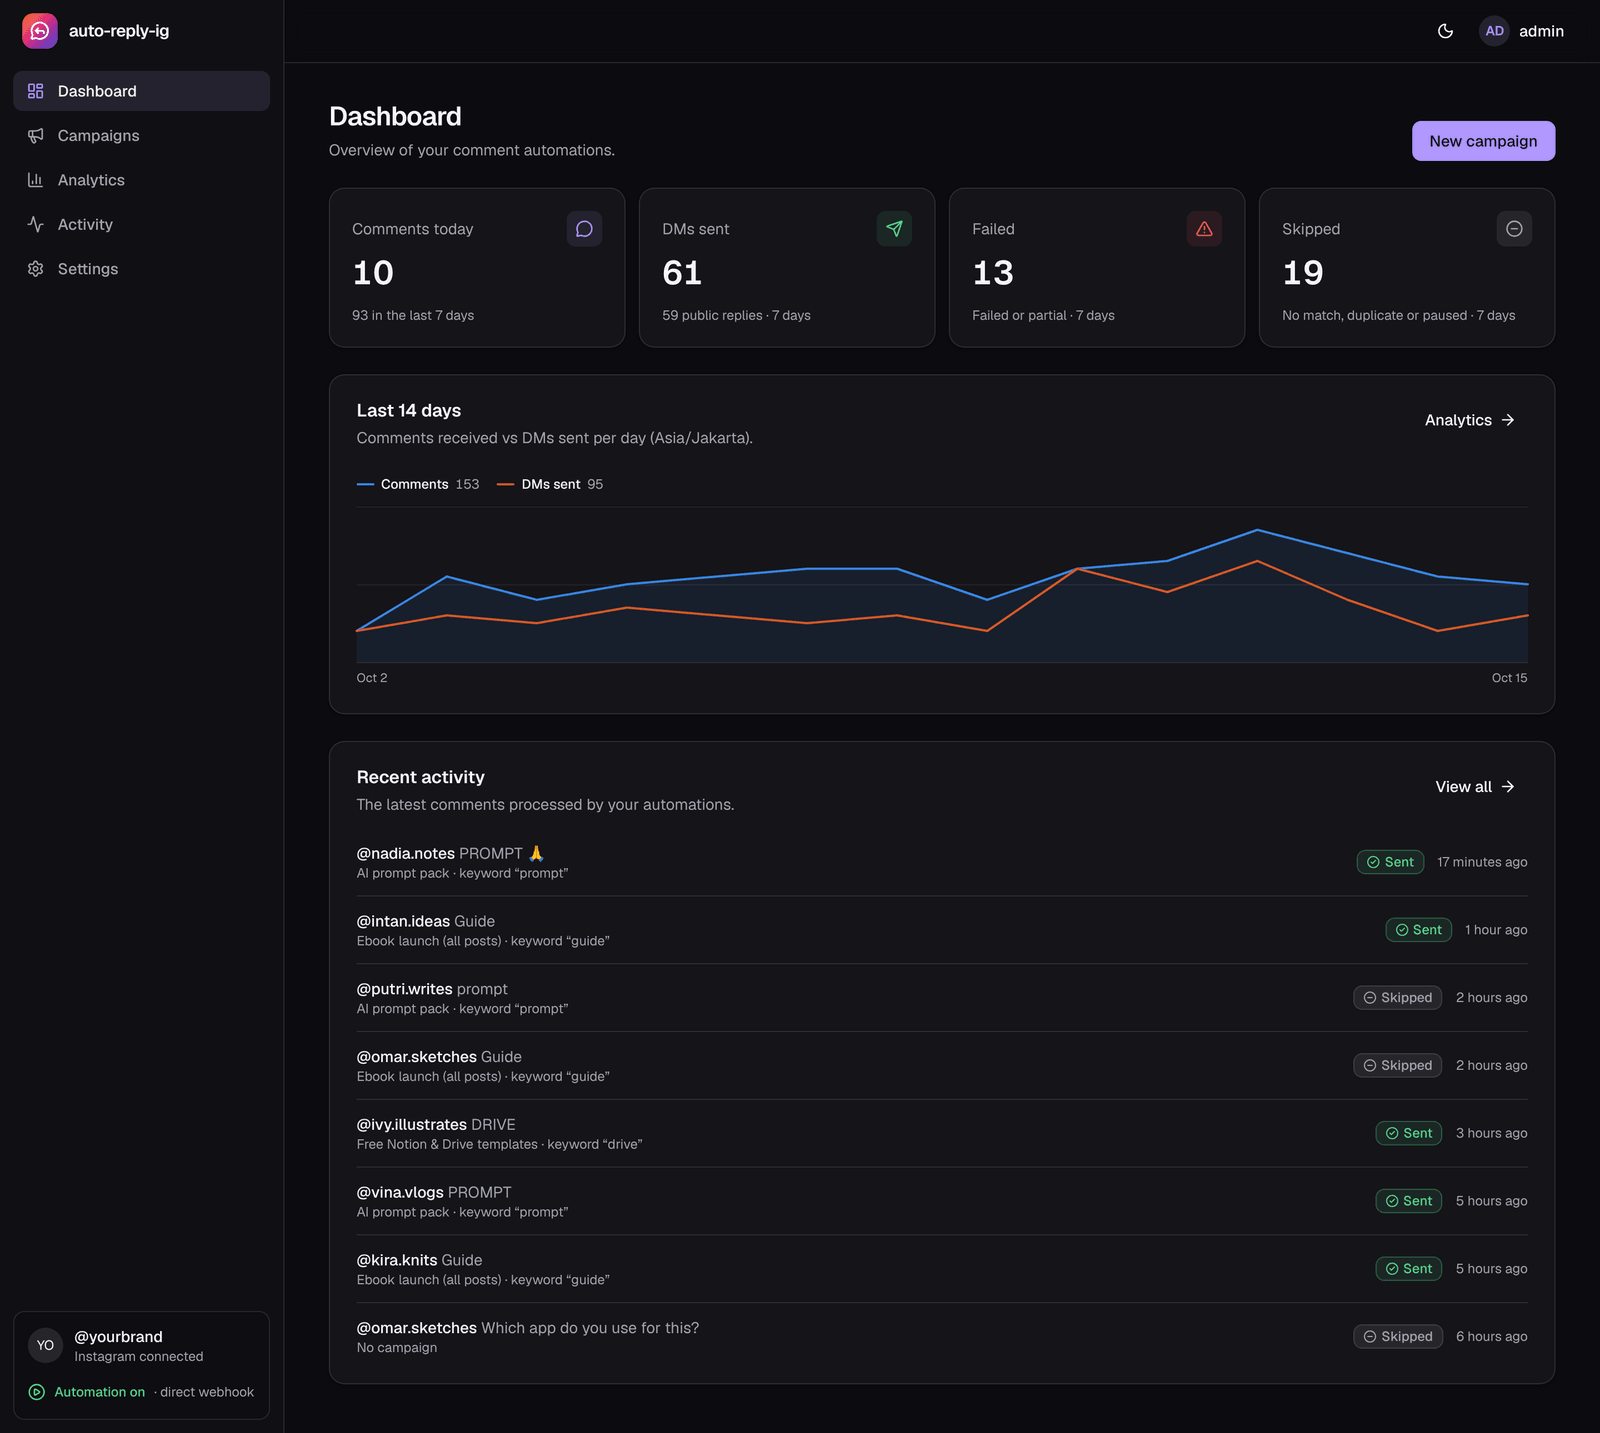
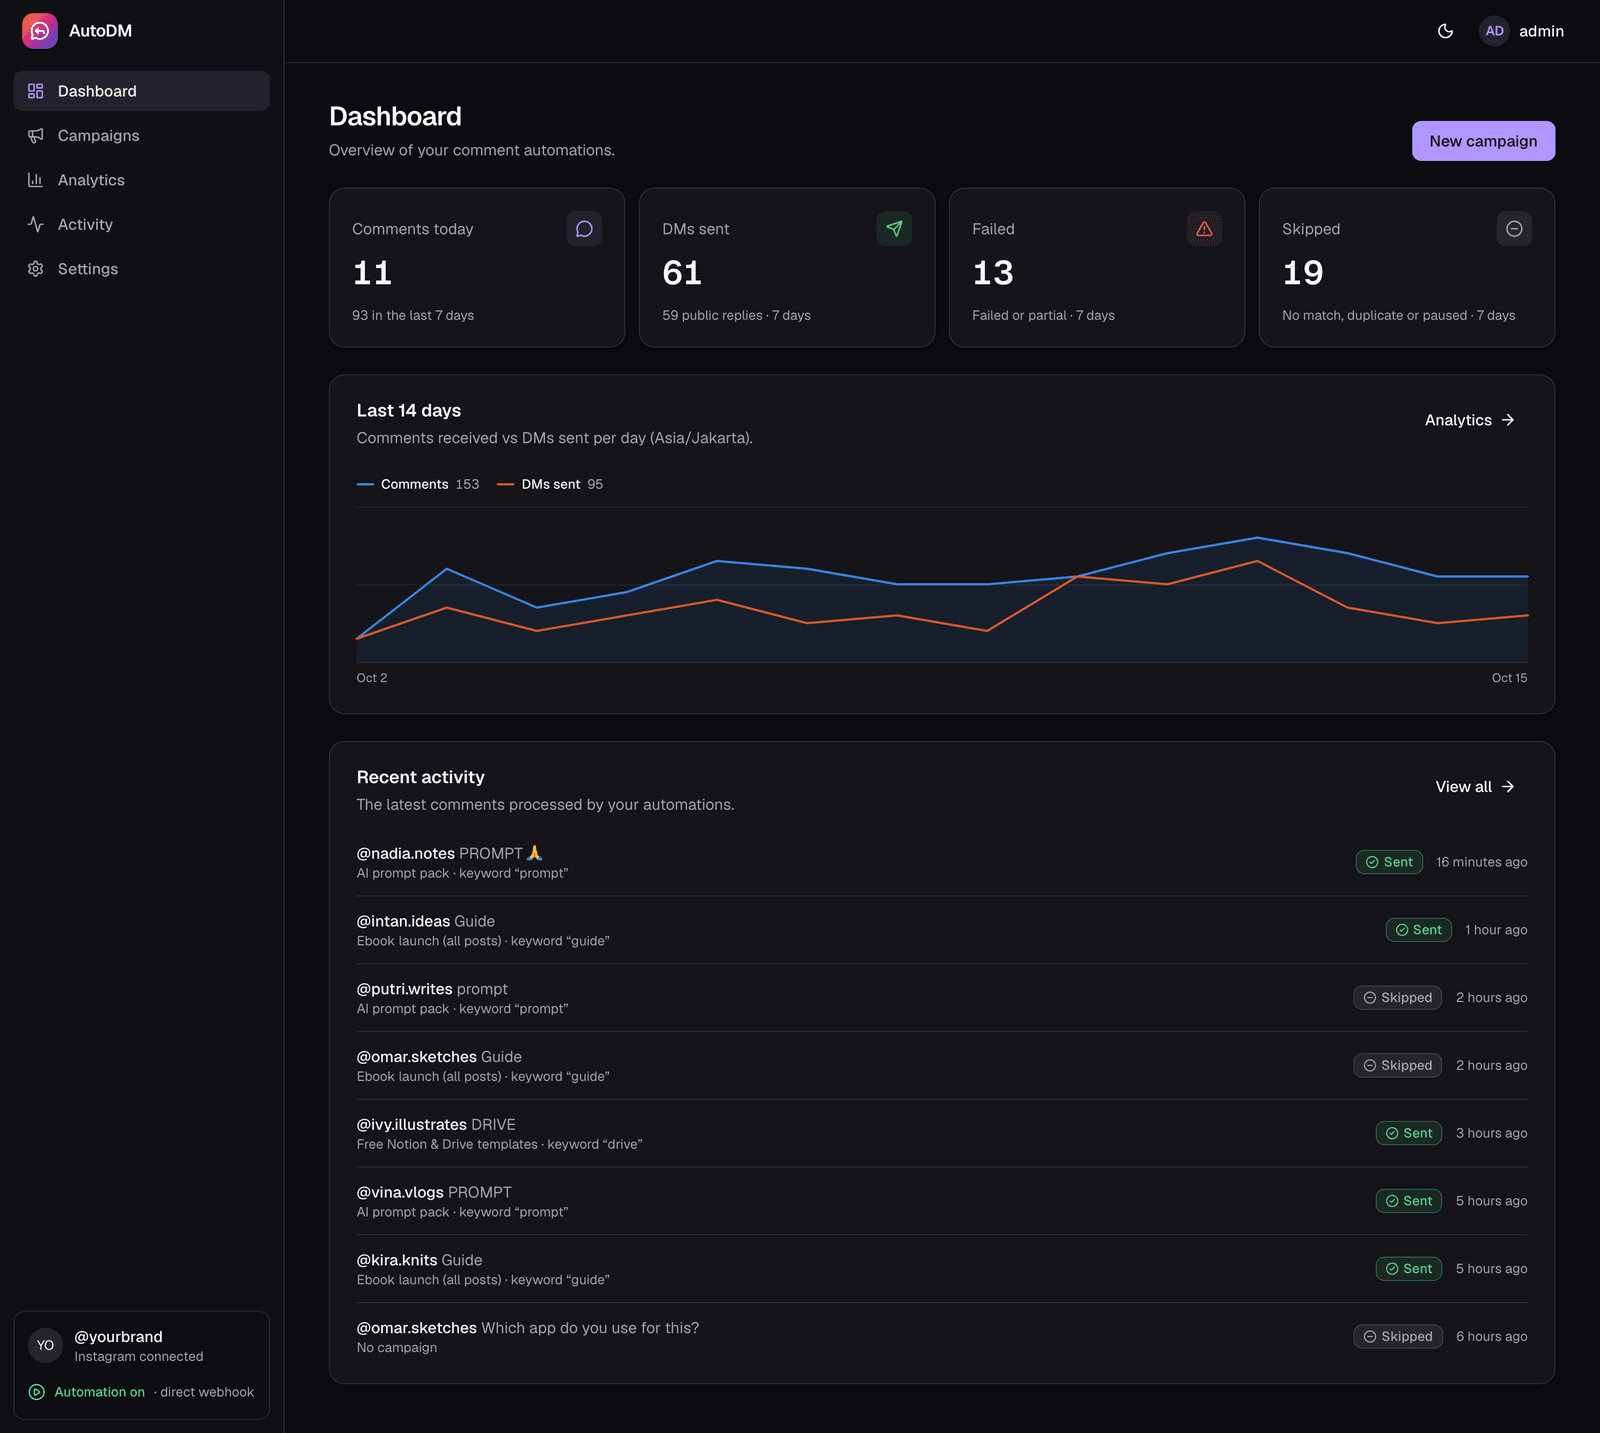
docs: retake README screenshots with the AutoDM name
Add scripts/demo/screenshots.ts (pnpm demo:screenshots, Playwright) so the
screenshots can be regenerated with one command.

diff --git a/scripts/demo/screenshots.ts b/scripts/demo/screenshots.ts
@@ -1,0 +1,130 @@
+/**
+ * Retakes the README screenshots in docs/assets/screenshots/ from a running app that uses the demo
+ * database (see "Demo data for screenshots" in docs/development.md):
+ *
+ *   SCREENSHOT_BASE_URL=http://localhost:3000 pnpm demo:screenshots
+ *
+ * Env: SCREENSHOT_BASE_URL (default http://localhost:3000), DEMO_PASSWORD (default demo-password-2026).
+ * Pages are captured at 1440px wide (390px for mobile) with deviceScaleFactor 2, light theme except
+ * dashboard-dark, then downscaled to 1600px wide (780px for mobile) and saved as palette PNG.
+ */
+import { mkdirSync, writeFileSync } from "node:fs";
+import { createRequire } from "node:module";
+import { dirname, join } from "node:path";
+import { fileURLToPath } from "node:url";
+import { chromium, type Page } from "playwright";
+
+/** The small slice of sharp's API this script uses (sharp ships with Next, see scripts/brand/banner.tsx). */
+type SharpPipeline = {
+  resize(width: number): SharpPipeline;
+  png(options: { compressionLevel: number; palette?: boolean; quality?: number; dither?: number }): SharpPipeline;
+  toBuffer(): Promise<Buffer>;
+};
+type SharpFactory = (input: Buffer) => SharpPipeline;
+
+const ROOT = join(dirname(fileURLToPath(import.meta.url)), "..", "..");
+const OUT = join(ROOT, "docs", "assets", "screenshots");
+const requireFromNext = createRequire(createRequire(import.meta.url).resolve("next/package.json"));
+const sharp = requireFromNext("sharp") as SharpFactory;
+
+const BASE = (process.env.SCREENSHOT_BASE_URL ?? "http://localhost:3000").replace(/\/$/, "");
+const PASSWORD = process.env.DEMO_PASSWORD ?? "demo-password-2026";
+
+type Shot = {
+  name: string;
+  path: string;
+  width: number;
+  height: number;
+  outWidth: number;
+  theme?: "light" | "dark";
+  auth?: boolean;
+  prepare?: (page: Page) => Promise<void>;
+};
+
+const SHOTS: Shot[] = [
+  { name: "landing", path: "/", width: 1440, height: 900, outWidth: 1600, auth: false },
+  { name: "dashboard-light", path: "/dashboard", width: 1440, height: 1290, outWidth: 1600 },
+  { name: "dashboard-dark", path: "/dashboard", width: 1440, height: 1290, outWidth: 1600, theme: "dark" },
+  { name: "dashboard-mobile", path: "/dashboard", width: 390, height: 844, outWidth: 780 },
+  { name: "activity", path: "/activity", width: 1440, height: 1000, outWidth: 1600 },
+  { name: "analytics", path: "/analytics", width: 1440, height: 1050, outWidth: 1600 },
+  {
+    name: "campaign-rule-editor",
+    path: "/campaigns",
+    width: 1440,
+    height: 1290,
+    outWidth: 1600,
+    prepare: async (page) => {
+      await page
+        .getByRole("link", { name: /Free Notion & Drive templates/ })
+        .first()
+        .click();
+      await page.waitForURL(/\/campaigns\/[^/]+$/);
+      await page.getByRole("button", { name: "Edit" }).first().click();
+      await page.getByText("Edit “Template folder”").waitFor();
+    },
+  },
+  {
+    name: "settings-instagram",
+    path: "/settings",
+    width: 1440,
+    height: 1100,
+    outWidth: 1600,
+    prepare: async (page) => {
+      await page.getByRole("tab", { name: "Instagram" }).click();
+      await page.getByText("Meta app").first().waitFor();
+    },
+  },
+];
+
+async function main() {
+  mkdirSync(OUT, { recursive: true });
+  const browser = await chromium.launch();
+  try {
+    for (const shot of SHOTS) {
+      const theme = shot.theme ?? "light";
+      const context = await browser.newContext({
+        viewport: { width: shot.width, height: shot.height },
+        deviceScaleFactor: 2,
+        colorScheme: theme,
+        reducedMotion: "reduce",
+      });
+      await context.addInitScript((t) => {
+        try {
+          localStorage.setItem("theme", t);
+        } catch {
+          /* storage unavailable */
+        }
+      }, theme);
+      const page = await context.newPage();
+      if (shot.auth !== false) {
+        await page.goto(`${BASE}/login`);
+        await page.locator("#username").fill("admin");
+        await page.locator("#password").fill(PASSWORD);
+        await page.getByRole("button", { name: /sign in|log in/i }).click();
+        await page.waitForURL((u) => !u.pathname.startsWith("/login"));
+      }
+      await page.goto(`${BASE}${shot.path}`);
+      await page.waitForLoadState("networkidle");
+      await shot.prepare?.(page);
+      await page.evaluate(() => (document.activeElement as HTMLElement | null)?.blur());
+      await page.mouse.move(0, 0);
+      await page.waitForTimeout(800);
+      const png = await page.screenshot();
+      const out = await sharp(png)
+        .resize(shot.outWidth)
+        .png({ compressionLevel: 9, palette: true, quality: 90, dither: 0.5 })
+        .toBuffer();
+      writeFileSync(join(OUT, `${shot.name}.png`), out);
+      console.log(`${shot.name}.png  ${(out.length / 1024).toFixed(0)} KB`);
+      await context.close();
+    }
+  } finally {
+    await browser.close();
+  }
+}
+
+main().catch((err) => {
+  console.error(err instanceof Error ? err.message : err);
+  process.exit(1);
+});

diff --git a/docs/development.md b/docs/development.md
@@ -53,8 +53,16 @@ pnpm db:migrate && pnpm demo:seed
 APP_URL=https://autodm.example.com pnpm build && pnpm start   # log in as admin / demo-password-2026
 ```
 
-Capture at 1440px wide (390px for mobile) with `deviceScaleFactor: 2`, downscale to 1600px wide and
-save as palette PNG (sharp, as in `scripts/brand/banner.tsx`) to keep each file around 100 KB.
+Then retake all eight screenshots with one command (Playwright, Chromium must be installed:
+`pnpm exec playwright install chromium`):
+
+```bash
+SCREENSHOT_BASE_URL=http://localhost:3000 pnpm demo:screenshots
+```
+
+`scripts/demo/screenshots.ts` logs in as `admin` (override the password with `DEMO_PASSWORD`), captures at
+1440px wide (390px for mobile) with `deviceScaleFactor: 2`, light theme except `dashboard-dark`, downscales to
+1600px wide and saves palette PNGs (sharp, as in `scripts/brand/banner.tsx`) to keep each file around 100 KB.
 
 ## Testing
 
